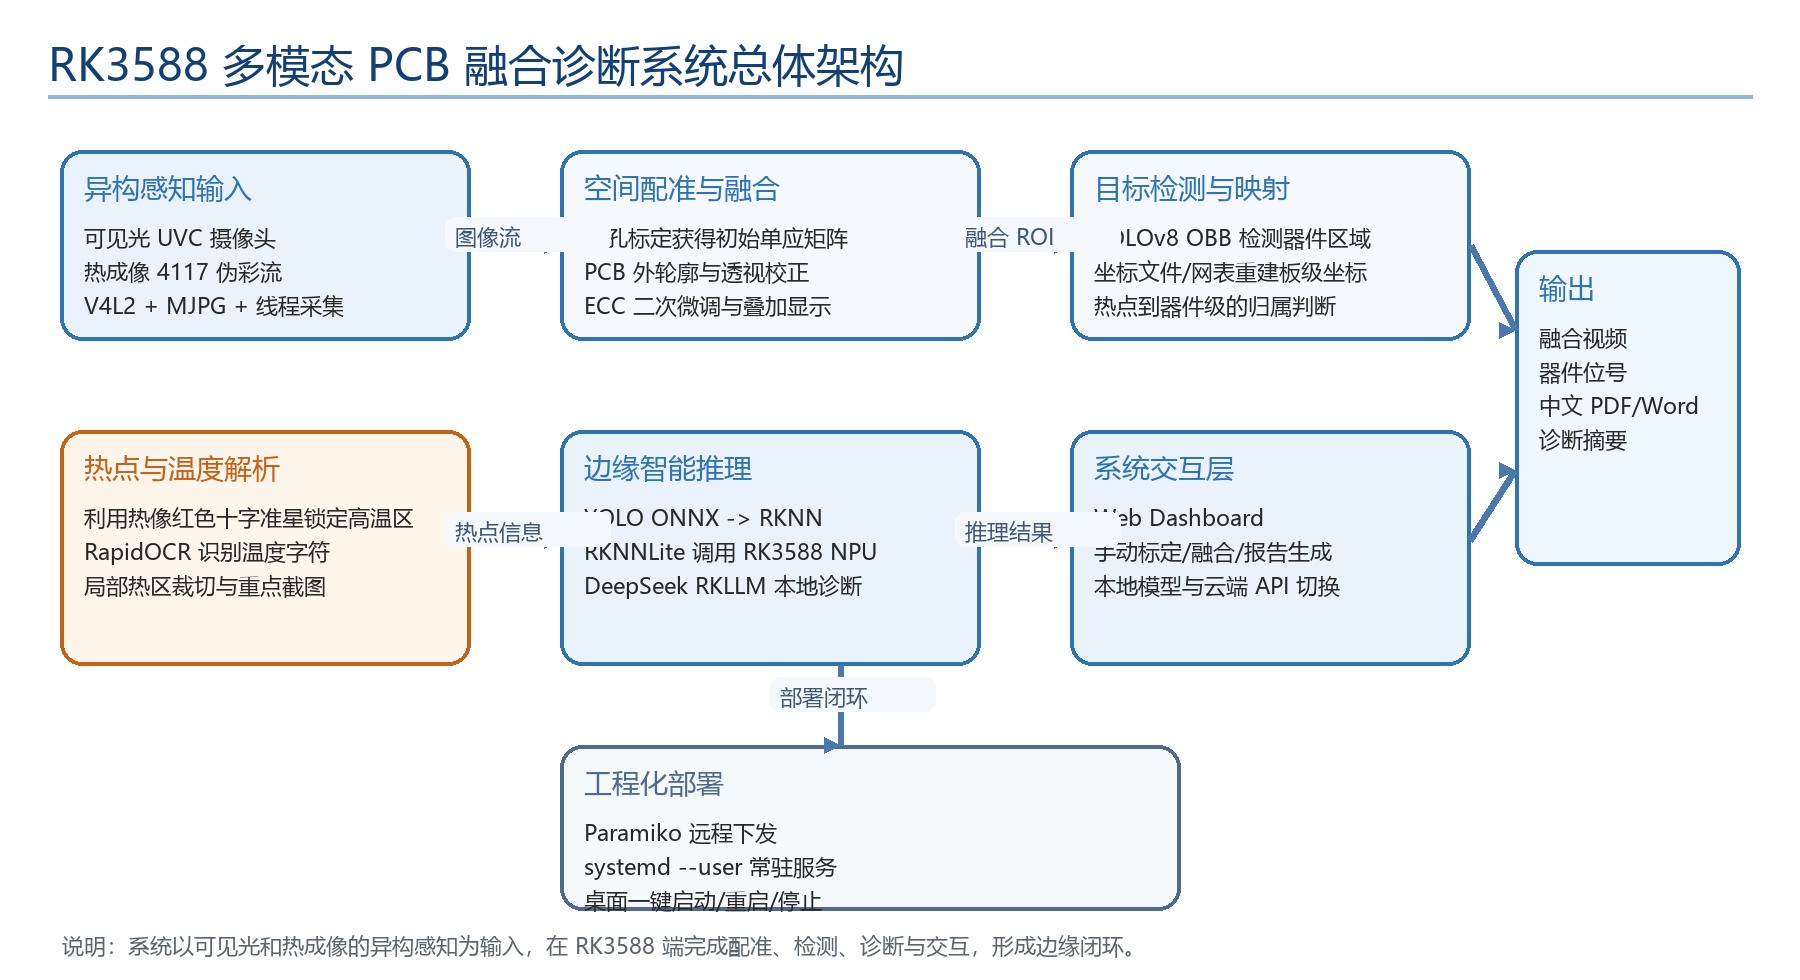
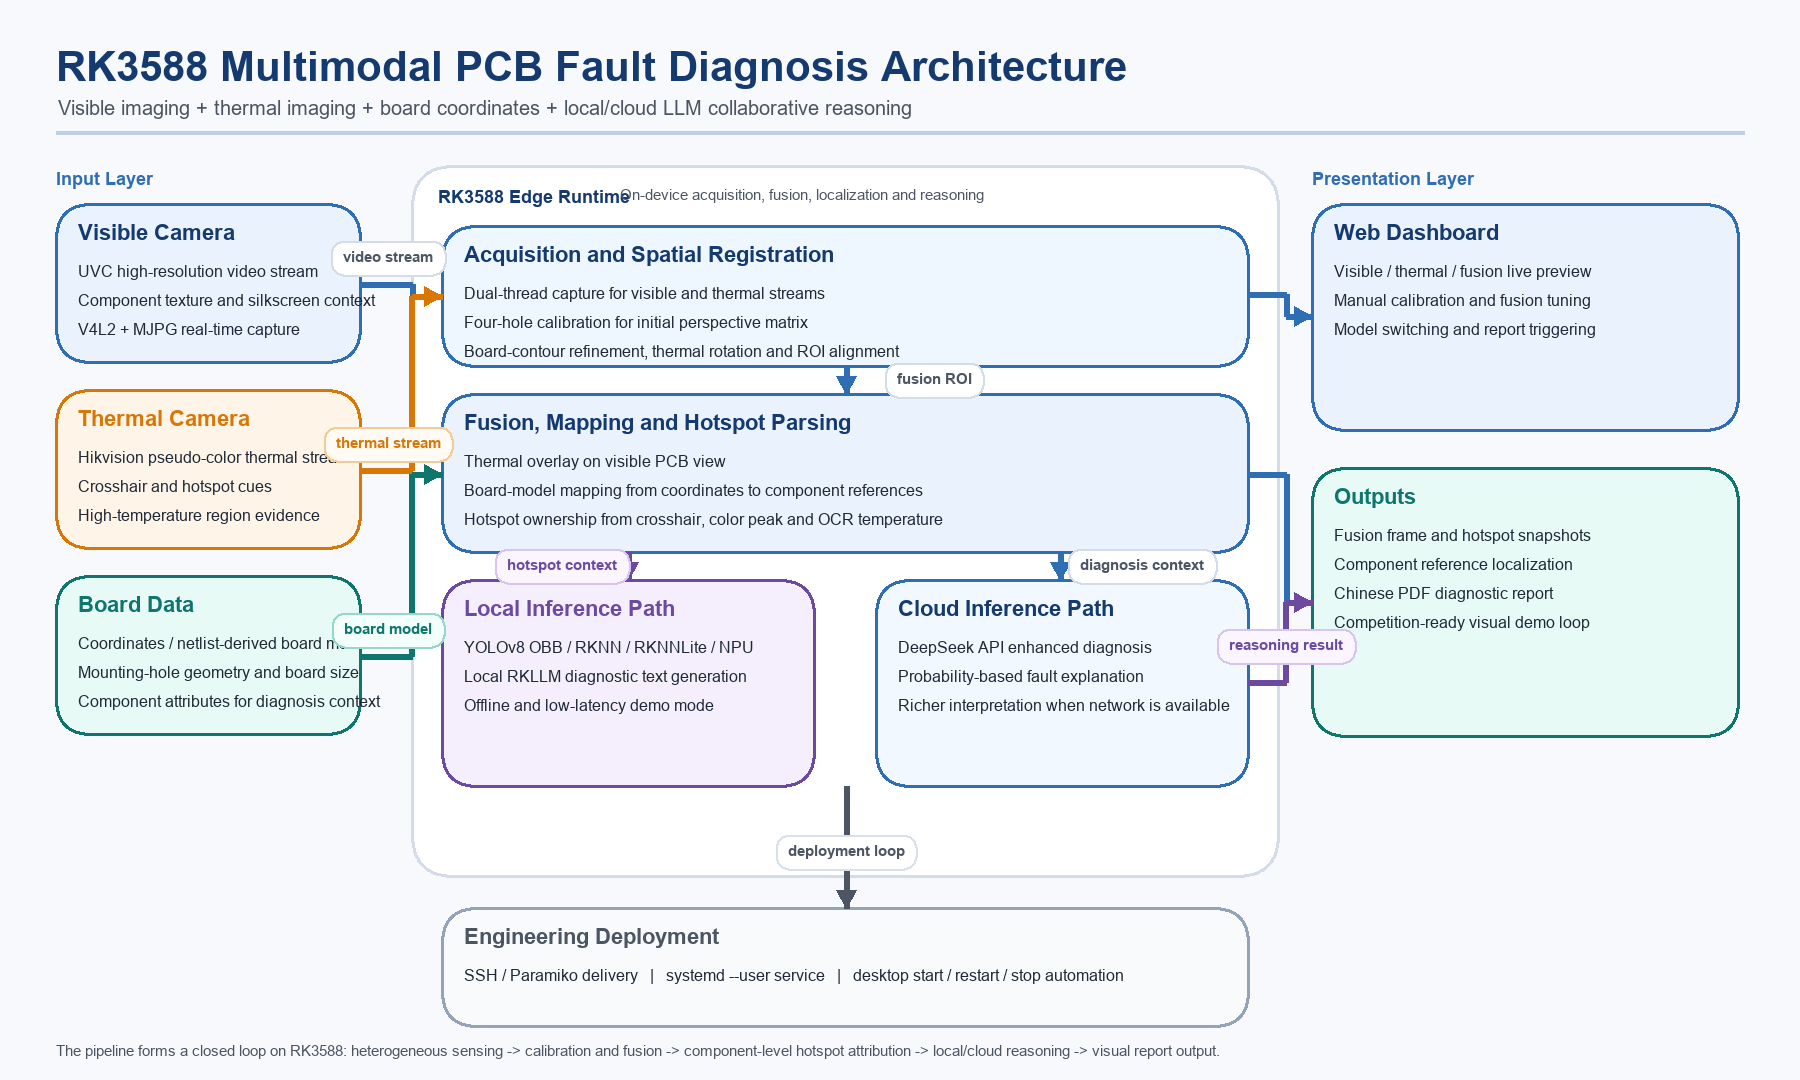
Redraw architecture diagram

diff --git a/generate_architecture_diagram.py b/generate_architecture_diagram.py
@@ -1,0 +1,308 @@
+from pathlib import Path
+
+from PIL import Image, ImageDraw, ImageFont
+
+
+OUT = Path(__file__).resolve().parent / "rk3588_architecture_diagram.png"
+WIDTH = 1800
+HEIGHT = 1080
+
+BG = "#f7f9fc"
+NAVY = "#143a6f"
+BLUE = "#2f6db4"
+BLUE_LIGHT = "#eaf2fd"
+TEAL = "#0f766e"
+TEAL_LIGHT = "#e8faf6"
+ORANGE = "#d97706"
+ORANGE_LIGHT = "#fff4e8"
+PURPLE = "#6d4aa2"
+PURPLE_LIGHT = "#f5effd"
+GRAY = "#4b5563"
+BORDER = "#d3dce8"
+TEXT = "#1f2937"
+
+
+def load_font(size, bold=False):
+    candidates = [
+        "C:/Windows/Fonts/arialbd.ttf" if bold else "C:/Windows/Fonts/arial.ttf",
+        "C:/Windows/Fonts/msyhbd.ttc" if bold else "C:/Windows/Fonts/msyh.ttc",
+    ]
+    for item in candidates:
+        path = Path(item)
+        if path.exists():
+            return ImageFont.truetype(str(path), size)
+    return ImageFont.load_default()
+
+
+TITLE_FONT = load_font(42, bold=True)
+SUBTITLE_FONT = load_font(20)
+SECTION_FONT = load_font(18, bold=True)
+CARD_TITLE_FONT = load_font(22, bold=True)
+CARD_BODY_FONT = load_font(16)
+TAG_FONT = load_font(15, bold=True)
+FOOTER_FONT = load_font(15)
+
+
+def text_size(draw, text, font_obj):
+    if hasattr(draw, "textbbox"):
+        left, top, right, bottom = draw.textbbox((0, 0), text, font=font_obj)
+        return right - left, bottom - top
+    return draw.textsize(text, font=font_obj)
+
+
+def wrap_text(draw, text, font_obj, width):
+    lines = []
+    for raw in text.split("\n"):
+        if not raw:
+            lines.append("")
+            continue
+        current = ""
+        for word in raw.split(" "):
+            probe = word if not current else current + " " + word
+            if text_size(draw, probe, font_obj)[0] <= width:
+                current = probe
+            else:
+                if current:
+                    lines.append(current)
+                current = word
+        if current:
+            lines.append(current)
+    return lines
+
+
+def rounded_box(draw, box, radius, fill, outline, width=1):
+    x1, y1, x2, y2 = box
+    if hasattr(draw, "rounded_rectangle"):
+        draw.rounded_rectangle(box, radius=radius, fill=fill, outline=outline, width=width)
+        return
+
+    draw.rectangle((x1 + radius, y1, x2 - radius, y2), fill=fill)
+    draw.rectangle((x1, y1 + radius, x2, y2 - radius), fill=fill)
+    draw.ellipse((x1, y1, x1 + radius * 2, y1 + radius * 2), fill=fill)
+    draw.ellipse((x2 - radius * 2, y1, x2, y1 + radius * 2), fill=fill)
+    draw.ellipse((x1, y2 - radius * 2, x1 + radius * 2, y2), fill=fill)
+    draw.ellipse((x2 - radius * 2, y2 - radius * 2, x2, y2), fill=fill)
+
+    if outline and width > 0:
+        draw.arc((x1, y1, x1 + radius * 2, y1 + radius * 2), 180, 270, fill=outline, width=width)
+        draw.arc((x2 - radius * 2, y1, x2, y1 + radius * 2), 270, 360, fill=outline, width=width)
+        draw.arc((x1, y2 - radius * 2, x1 + radius * 2, y2), 90, 180, fill=outline, width=width)
+        draw.arc((x2 - radius * 2, y2 - radius * 2, x2, y2), 0, 90, fill=outline, width=width)
+        draw.line((x1 + radius, y1, x2 - radius, y1), fill=outline, width=width)
+        draw.line((x1 + radius, y2, x2 - radius, y2), fill=outline, width=width)
+        draw.line((x1, y1 + radius, x1, y2 - radius), fill=outline, width=width)
+        draw.line((x2, y1 + radius, x2, y2 - radius), fill=outline, width=width)
+
+
+def draw_card(draw, box, title, body, fill, outline, title_fill=NAVY):
+    rounded_box(draw, box, radius=28, fill=fill, outline=outline, width=3)
+    x1, y1, x2, _ = box
+    draw.text((x1 + 22, y1 + 16), title, font=CARD_TITLE_FONT, fill=title_fill)
+    top = y1 + 58
+    for line in body:
+        draw.text((x1 + 22, top), line, font=CARD_BODY_FONT, fill=TEXT)
+        top += 29
+
+
+def draw_tag(draw, center, text, fill="#ffffff", outline=BORDER, text_fill=GRAY):
+    x, y = center
+    w = text_size(draw, text, TAG_FONT)[0] + 24
+    h = 34
+    box = (x - w // 2, y - h // 2, x + w // 2, y + h // 2)
+    rounded_box(draw, box, radius=12, fill=fill, outline=outline, width=2)
+    draw.text((box[0] + 12, box[1] + 7), text, font=TAG_FONT, fill=text_fill)
+
+
+def arrow(draw, start, end, color=BLUE, width=6):
+    x1, y1 = start
+    x2, y2 = end
+    draw.line((x1, y1, x2, y2), fill=color, width=width)
+    if abs(x2 - x1) >= abs(y2 - y1):
+        sign = 1 if x2 >= x1 else -1
+        draw.polygon([(x2, y2), (x2 - 18 * sign, y2 - 10), (x2 - 18 * sign, y2 + 10)], fill=color)
+    else:
+        sign = 1 if y2 >= y1 else -1
+        draw.polygon([(x2, y2), (x2 - 10, y2 - 18 * sign), (x2 + 10, y2 - 18 * sign)], fill=color)
+
+
+def elbow_arrow(draw, points, color=BLUE, width=6):
+    draw.line(points, fill=color, width=width)
+    arrow(draw, points[-2], points[-1], color=color, width=width)
+
+
+img = Image.new("RGB", (WIDTH, HEIGHT), BG)
+draw = ImageDraw.Draw(img)
+
+draw.text((56, 42), "RK3588 Multimodal PCB Fault Diagnosis Architecture", font=TITLE_FONT, fill=NAVY)
+draw.text(
+    (58, 96),
+    "Visible imaging + thermal imaging + board coordinates + local/cloud LLM collaborative reasoning",
+    font=SUBTITLE_FONT,
+    fill=GRAY,
+)
+draw.line((56, 132, WIDTH - 56, 132), fill="#bdd0e7", width=4)
+
+draw.text((56, 168), "Input Layer", font=SECTION_FONT, fill=BLUE)
+draw_card(
+    draw,
+    (56, 204, 360, 362),
+    "Visible Camera",
+    [
+        "UVC high-resolution video stream",
+        "Component texture and silkscreen context",
+        "V4L2 + MJPG real-time capture",
+    ],
+    BLUE_LIGHT,
+    BLUE,
+)
+draw_card(
+    draw,
+    (56, 390, 360, 548),
+    "Thermal Camera",
+    [
+        "Hikvision pseudo-color thermal stream",
+        "Crosshair and hotspot cues",
+        "High-temperature region evidence",
+    ],
+    ORANGE_LIGHT,
+    ORANGE,
+    title_fill=ORANGE,
+)
+draw_card(
+    draw,
+    (56, 576, 360, 734),
+    "Board Data",
+    [
+        "Coordinates / netlist-derived board model",
+        "Mounting-hole geometry and board size",
+        "Component attributes for diagnosis context",
+    ],
+    TEAL_LIGHT,
+    TEAL,
+    title_fill=TEAL,
+)
+
+rounded_box(draw, (412, 166, 1278, 876), radius=34, fill="#ffffff", outline=BORDER, width=3)
+draw.text((438, 186), "RK3588 Edge Runtime", font=SECTION_FONT, fill=NAVY)
+draw.text((620, 186), "On-device acquisition, fusion, localization and reasoning", font=FOOTER_FONT, fill=GRAY)
+
+draw_card(
+    draw,
+    (442, 226, 1248, 366),
+    "Acquisition and Spatial Registration",
+    [
+        "Dual-thread capture for visible and thermal streams",
+        "Four-hole calibration for initial perspective matrix",
+        "Board-contour refinement, thermal rotation and ROI alignment",
+    ],
+    "#eef7ff",
+    BLUE,
+)
+draw_card(
+    draw,
+    (442, 394, 1248, 552),
+    "Fusion, Mapping and Hotspot Parsing",
+    [
+        "Thermal overlay on visible PCB view",
+        "Board-model mapping from coordinates to component references",
+        "Hotspot ownership from crosshair, color peak and OCR temperature",
+    ],
+    BLUE_LIGHT,
+    BLUE,
+)
+draw_card(
+    draw,
+    (442, 580, 814, 786),
+    "Local Inference Path",
+    [
+        "YOLOv8 OBB / RKNN / RKNNLite / NPU",
+        "Local RKLLM diagnostic text generation",
+        "Offline and low-latency demo mode",
+    ],
+    PURPLE_LIGHT,
+    PURPLE,
+    title_fill=PURPLE,
+)
+draw_card(
+    draw,
+    (876, 580, 1248, 786),
+    "Cloud Inference Path",
+    [
+        "DeepSeek API enhanced diagnosis",
+        "Probability-based fault explanation",
+        "Richer interpretation when network is available",
+    ],
+    "#f2f8ff",
+    BLUE,
+)
+
+draw.text((1312, 168), "Presentation Layer", font=SECTION_FONT, fill=BLUE)
+draw_card(
+    draw,
+    (1312, 204, 1738, 430),
+    "Web Dashboard",
+    [
+        "Visible / thermal / fusion live preview",
+        "Manual calibration and fusion tuning",
+        "Model switching and report triggering",
+    ],
+    BLUE_LIGHT,
+    BLUE,
+)
+draw_card(
+    draw,
+    (1312, 468, 1738, 736),
+    "Outputs",
+    [
+        "Fusion frame and hotspot snapshots",
+        "Component reference localization",
+        "Chinese PDF diagnostic report",
+        "Competition-ready visual demo loop",
+    ],
+    TEAL_LIGHT,
+    TEAL,
+    title_fill=TEAL,
+)
+
+draw_card(
+    draw,
+    (442, 908, 1248, 1026),
+    "Engineering Deployment",
+    [
+        "SSH / Paramiko delivery   |   systemd --user service   |   desktop start / restart / stop automation",
+    ],
+    "#f8fafc",
+    "#94a3b8",
+    title_fill=GRAY,
+)
+
+elbow_arrow(draw, [(360, 284), (412, 284), (412, 296), (442, 296)], color=BLUE)
+draw_tag(draw, (388, 258), "video stream")
+elbow_arrow(draw, [(360, 470), (412, 470), (412, 296), (442, 296)], color=ORANGE)
+draw_tag(draw, (388, 444), "thermal stream", fill="#fffaf3", outline="#f3cb98", text_fill=ORANGE)
+elbow_arrow(draw, [(360, 656), (412, 656), (412, 474), (442, 474)], color=TEAL)
+draw_tag(draw, (388, 630), "board model", fill="#f3fffb", outline="#98d6c7", text_fill=TEAL)
+
+arrow(draw, (846, 366), (846, 394), color=BLUE)
+draw_tag(draw, (934, 380), "fusion ROI")
+arrow(draw, (628, 552), (628, 580), color=PURPLE)
+draw_tag(draw, (562, 566), "hotspot context", fill="#faf5ff", outline="#d7c5ef", text_fill=PURPLE)
+arrow(draw, (1060, 552), (1060, 580), color=BLUE)
+draw_tag(draw, (1142, 566), "diagnosis context")
+
+elbow_arrow(draw, [(1248, 294), (1286, 294), (1286, 316), (1312, 316)], color=BLUE)
+elbow_arrow(draw, [(1248, 474), (1286, 474), (1286, 602), (1312, 602)], color=BLUE)
+elbow_arrow(draw, [(1248, 682), (1286, 682), (1286, 602), (1312, 602)], color=PURPLE)
+draw_tag(draw, (1286, 646), "reasoning result", fill="#faf5ff", outline="#d7c5ef", text_fill=PURPLE)
+
+arrow(draw, (846, 786), (846, 908), color=GRAY)
+draw_tag(draw, (846, 852), "deployment loop", outline="#d8e0ea")
+
+footer = (
+    "The pipeline forms a closed loop on RK3588: heterogeneous sensing -> calibration and fusion -> "
+    "component-level hotspot attribution -> local/cloud reasoning -> visual report output."
+)
+draw.text((56, 1042), footer, font=FOOTER_FONT, fill=GRAY)
+
+img.save(str(OUT), quality=95)
+print(OUT)
